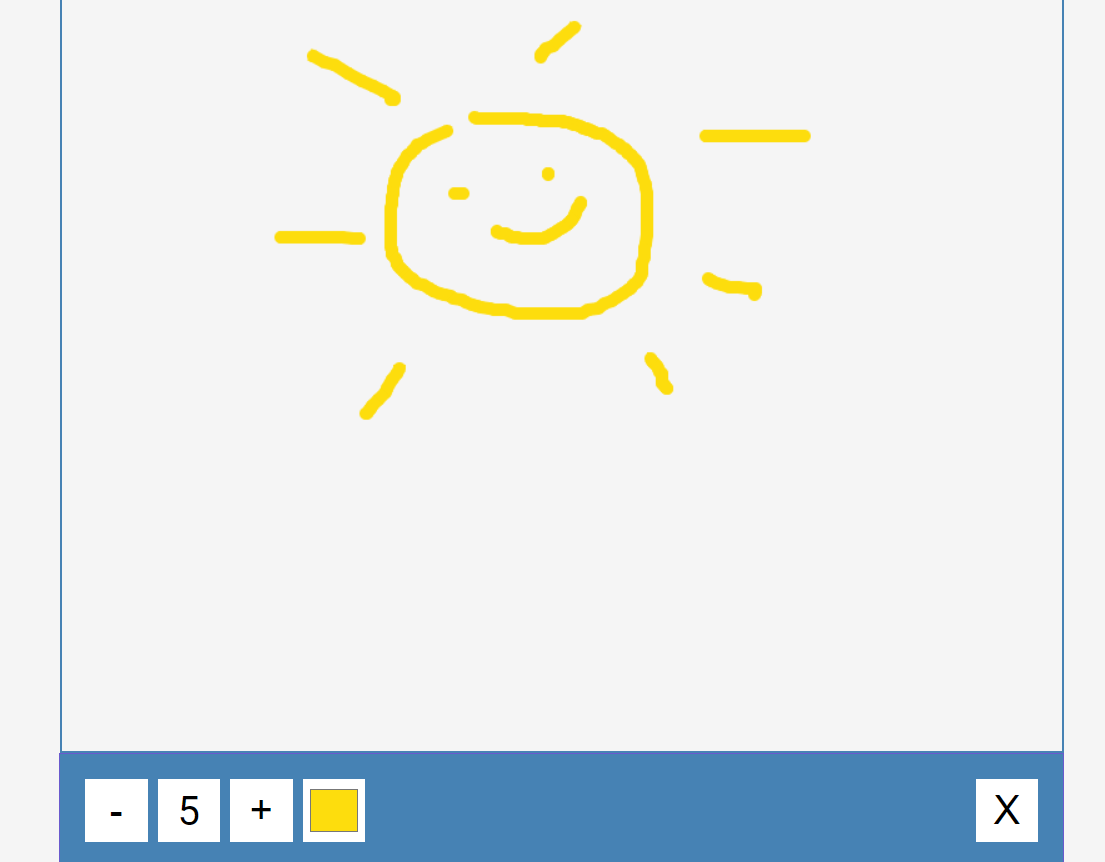
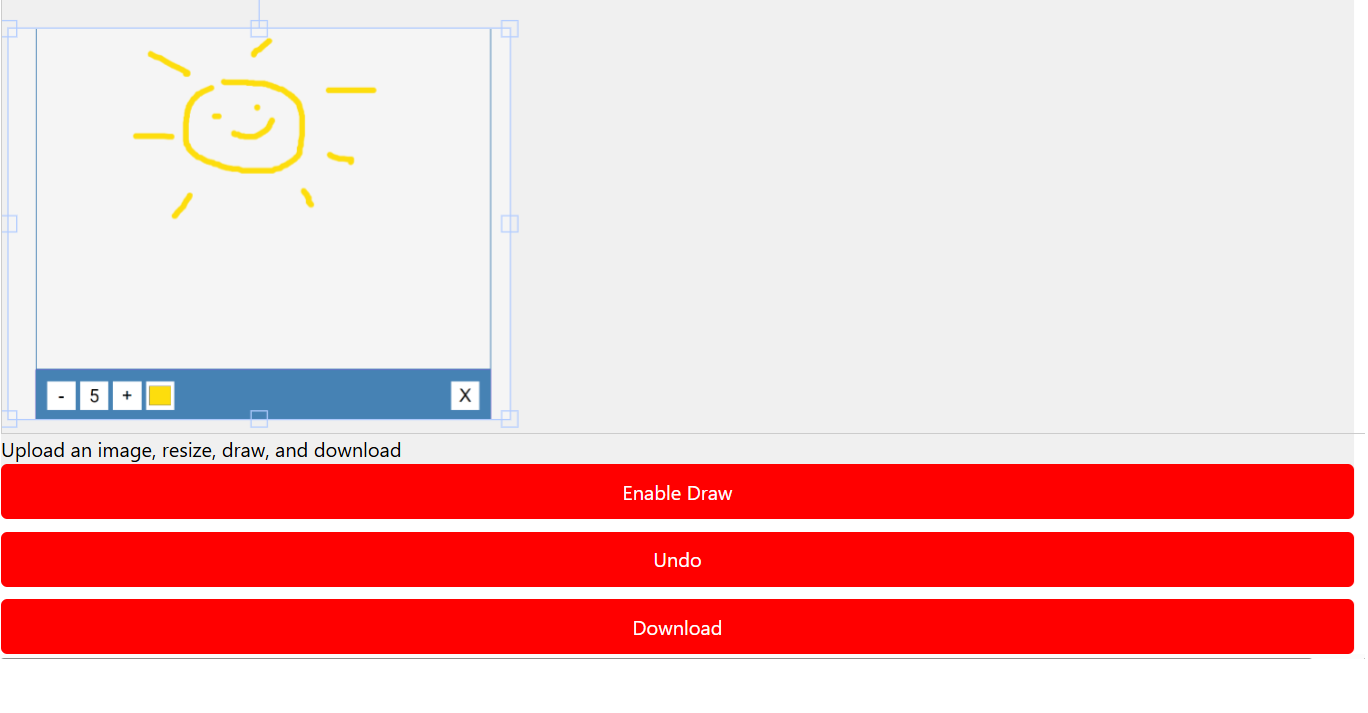
adding draw project

diff --git a/index.html b/index.html
@@ -158,7 +158,12 @@
                     <a href=https://data-analytics-dashboard-hpvhgujjxd38oxcre8vpy6.streamlit.app/ target="_blank">Interactive Data Analytics Dashboard (Python)<br>
                     </a>
                     <img decoding="async" class="alignnone wp-image-15398 size-medium entered lazyloaded" width="200" height="150" data-lazy-sizes="(max-width: 300px) 100vw, 300px" data-ll-status="loaded" sizes="(max-width: 300px) 100vw, 300px" src="images/DAD.jpg" 300w, 1024w>
-                  </li>            
+                  </li>    
+                  <li>
+                    <a href=https://ai-image-editor-j2dd.onrender.com/ target="_blank">AI Image Draw, Resize, & Download (React)<br>
+                    </a>
+                    <img decoding="async" class="alignnone wp-image-15398 size-medium entered lazyloaded" width="200" height="150" data-lazy-sizes="(max-width: 300px) 100vw, 300px" data-ll-status="loaded" sizes="(max-width: 300px) 100vw, 300px" src="images/drawing-app.png" 300w, 1024w>
+                  </li>         
                 </ol>
               </div>
             </div>
